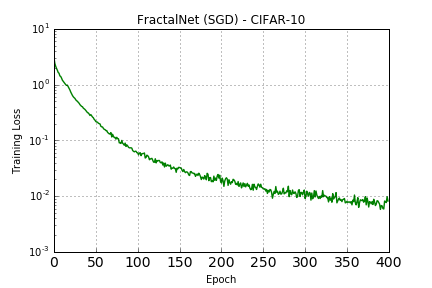
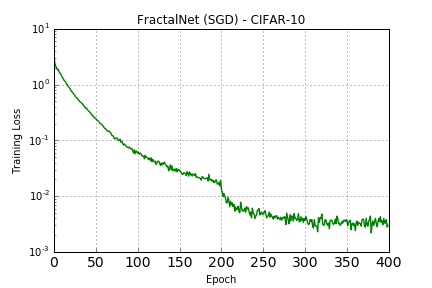
adding support for selecting only the deepest column and loading saved weights

diff --git a/src/fractalnet.py b/src/fractalnet.py
@@ -48,12 +48,13 @@ class JoinLayer(Layer):
     - Local: sample a random tensor to select the paths.
     '''
 
-    def __init__(self, drop_p, is_global, global_path, **kwargs):
+    def __init__(self, drop_p, is_global, global_path, force_path, **kwargs):
         #print "init"
         self.p = 1. - drop_p
         self.is_global = is_global
         self.global_path = global_path
         self.uses_learning_phase = True
+        self.force_path = force_path
         super(JoinLayer, self).__init__(**kwargs)
 
     def build(self, input_shape):
@@ -107,7 +108,10 @@ class JoinLayer(Layer):
 
     def call(self, inputs, mask=None):
         #print("call")
-        output = K.in_train_phase(self._drop_path(inputs), self._ave(inputs))
+        if self.force_path:
+            output = self._drop_path(inputs)
+        else:
+            output = K.in_train_phase(self._drop_path(inputs), self._ave(inputs))
         return output
 
     def get_output_shape_for(self, input_shape):
@@ -124,13 +128,18 @@ class JoinLayerGen:
     and which path to take in case it is.
     '''
 
-    def __init__(self, width, global_p=0.5):
+    def __init__(self, width, global_p=0.5, deepest=False):
         self.global_p = global_p
         self.width = width
         self.switch_seed = np.random.randint(1, 10e6)
         self.path_seed = np.random.randint(1, 10e6)
-        self.path_array = self._build_global_path_arr()
-        self.is_global = self._build_global_switch()
+        self.deepest = deepest
+        if deepest:
+            self.is_global = K.variable(1.)
+            self.path_array = K.variable([1.] + [.0 for _ in range(width-1)])
+        else:
+            self.is_global = self._build_global_switch()
+            self.path_array = self._build_global_path_arr()
 
     def _build_global_path_arr(self):
         # The path the block will take when using global droppath
@@ -144,7 +153,7 @@ class JoinLayerGen:
     def get_join_layer(self, drop_p):
         global_switch = self.is_global
         global_path = self.path_array
-        return JoinLayer(drop_p=drop_p, is_global=global_switch, global_path=global_path)
+        return JoinLayer(drop_p=drop_p, is_global=global_switch, global_path=global_path, force_path=self.deepest)
 
 def fractal_conv(filter, nb_row, nb_col, dropout=None):
     def f(prev):
@@ -189,17 +198,20 @@ def fractal_block(join_gen, c, filter, nb_col, nb_row, drop_p, dropout=None):
         return columns[0][-1]
     return f
 
-def fractal_net(b, c, conv, drop_path, global_p=0.5, dropout=None):
+def fractal_net(b, c, conv, drop_path, global_p=0.5, dropout=None, deepest=False):
     '''
     Return a function that builds the Fractal part of the network
     respecting keras functional model.
+    When deepest is set, we build the entire network but set droppath
+    to global and the Join masks to [1., 0... 0.] so only the deepest
+    column is always taken.
     We don't add the softmax layer here nor build the model.
     '''
     def f(z):
         output = z
         # Initialize a JoinLayerGen that will be used to derive the
         # JoinLayers that share the same global droppath
-        join_gen = JoinLayerGen(width=c, global_p=global_p)
+        join_gen = JoinLayerGen(width=c, global_p=global_p, deepest=deepest)
         for i in range(b):
             (filter, nb_col, nb_row) = conv[i]
             dropout_i = dropout[i] if dropout else None

diff --git a/src/cifar10_fractal.py b/src/cifar10_fractal.py
@@ -1,3 +1,6 @@
+import os
+import glob
+import argparse
 from keras.callbacks import (
     LearningRateScheduler,
     ModelCheckpoint
@@ -10,7 +13,7 @@ from keras.layers import (
     Flatten
 )
 from keras.models import Model
-from keras.optimizers import SGD, RMSprop, Adam#, Nadam
+from keras.optimizers import SGD, RMSprop, Adam, Nadam
 from keras.utils.visualize_util import plot
 from keras.utils import np_utils
 
@@ -47,27 +50,28 @@ def learning_rate(epoch):
         return 0.00002
     return 0.000002
 
-def build_network():
+def build_network(deepest=False):
     dropout = [0., 0.1, 0.2, 0.3, 0.4]
     conv = [(64, 3, 3), (128, 3, 3), (256, 3, 3), (512, 3, 3), (512, 2, 2)]
     input= Input(shape=(3, 32, 32))
     output = fractal_net(
         c=3, b=5, conv=conv,
-        drop_path=0.15, dropout=dropout)(input)
+        drop_path=0.15, dropout=dropout,
+        deepest=deepest)(input)
     output = Flatten()(output)
     output = Dense(NB_CLASSES)(output)
     output = Activation('softmax')(output)
     model = Model(input=input, output=output)
-    optimizer = SGD(lr=LEARN_START, momentum=MOMENTUM)
+    #optimizer = SGD(lr=LEARN_START, momentum=MOMENTUM)
     #optimizer = SGD(lr=LEARN_START, momentum=MOMENTUM, nesterov=True)
-    #optimizer = RMSprop(lr=LEARN_START)
     #optimizer = Adam()
-    #optimizer = Nadam()
+    optimizer = Nadam()
     model.compile(optimizer=optimizer, loss='categorical_crossentropy', metrics=['accuracy'])
     plot(model, to_file='model.png', show_shapes=True)
     return model
 
 def train_network(net):
+    print("Training network")
     snapshot = ModelCheckpoint(
         filepath="snapshots/weights.{epoch:04d}-{val_loss:.4f}.h5",
         monitor="val_loss",
@@ -80,5 +84,30 @@ def train_network(net):
         #callbacks=[snapshot]
     )
 
-net = build_network()
-train_network(net)
+def test_network(net, weights):
+    print("Loading weights from '{}' and testing".format(weights))
+    net.load_weights(weights)
+    ret = net.evaluate(x=X_test, y=Y_test, batch_size=BATCH_SIZE)
+    print('Test:', ret)
+
+def main():
+    parser = argparse.ArgumentParser(description='FractalNet on CIFAR-10')
+    parser.add_argument('--load', nargs=1,
+                        help='Test network with weights file')
+    parser.add_argument('--deepest', help='Build with only deepest column activated',
+                        action='store_true')
+    parser.add_argument('--test-all', nargs=1,
+                        help='Test all the weights from a folder')
+    args = parser.parse_args()
+    net = build_network(deepest=args.deepest)
+    if args.load:
+        weights = args.load[0]
+        test_network(net, weights)
+    elif args.test_all:
+        folder = args.test_all[0]
+        for weights in glob.glob(os.path.join(folder, 'weigh*')):
+            test_network(net, weights)
+    else:
+        train_network(net)
+
+main()

diff --git a/README.md b/README.md
@@ -9,9 +9,11 @@ Model graph image of FractalNet(c=3, b=5) generated by keras: [link](https://raw
 
 ## Results
 
-This results are from the experiments with the code published here. The authors of the paper have not yet released the code as of the publishing of this so I can't say what's different from theirs code. Also there is no kind of normalization across the dataset in the raw tests which they may have done.
+This results are from the experiments with the code published here. The authors of the paper have not yet released the code as of the publishing of this so I can't say what's different from theirs code. Also there is no kind of normalization across the dataset in the raw tests (which they may have done).
 
-So far the results are promising when compared against Residual Networks.
+So far the results are promising when compared against Residual Networks. But I couldn't reproduce their deepest-column experiment.
+
+The code here might have bugs too, if you find anything write me or submit a PR and I will rerun the tests.
 
 Test error (%)
 
@@ -22,10 +24,10 @@ ResNet Stocatic Depth (reported by [1]) | 11.66 | 37.80
 FractalNet (paper)                         | 10.18 | 35.34
 FractalNet+dropout/drop-path (paper)       | 7.33 | 28.20
 FractalNet+dropout/drop-path (this w/Adam) | 8.73 | N/A
-FractalNet+dropout/drop-path (this w/SGD)  | 9.80 | 34.99
+FractalNet+dropout/drop-path (this w/SGD)  | 11.16 | 34.99
 FractalNet+dropout/drop-path/deepest-column (paper) | 7.27 | 29.05
 FractalNet+dropout/drop-path/deepest-column (this w/Adam) | N/A | N/A
-FractalNet+dropout/drop-path/deepest-column (this w/SGD) | N/A | N/A
+FractalNet+dropout/drop-path/deepest-column (this w/SGD) | 21.07 | N/A
 
 [1] G. Huang, Y. Sun, Z. Liu, D. Sedra, and K. Weinberger.  Deep networks with stochastic depth. arXiv preprint arXiv:1603.09382, 2016.
 
